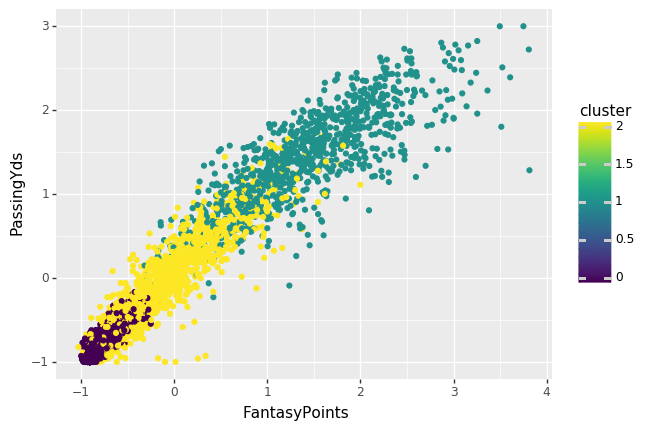
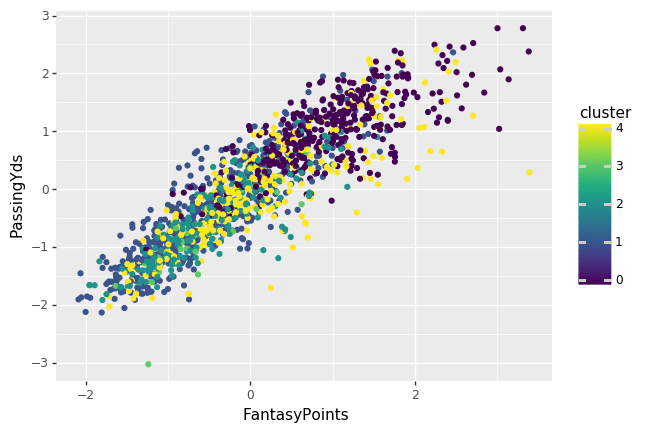
test

diff --git a/load_data.py b/load_data.py
@@ -131,6 +131,7 @@ TE_features = ['Tm','Age','G','GS','Tgt','Rec','ReceivingYds','Y/R','ReceivingTD
 TE = A[A['Pos'] == 4]
 TE = A[TE_features]
 
+QB = QB[QB['GS'] >= 8]
 
 z = StandardScaler()
 

diff --git a/test.py b/test.py
@@ -1,0 +1,4 @@
+import pandas as pd
+
+X = pd.read_csv('Fantasy_Data/yearly/2019.csv')
+
